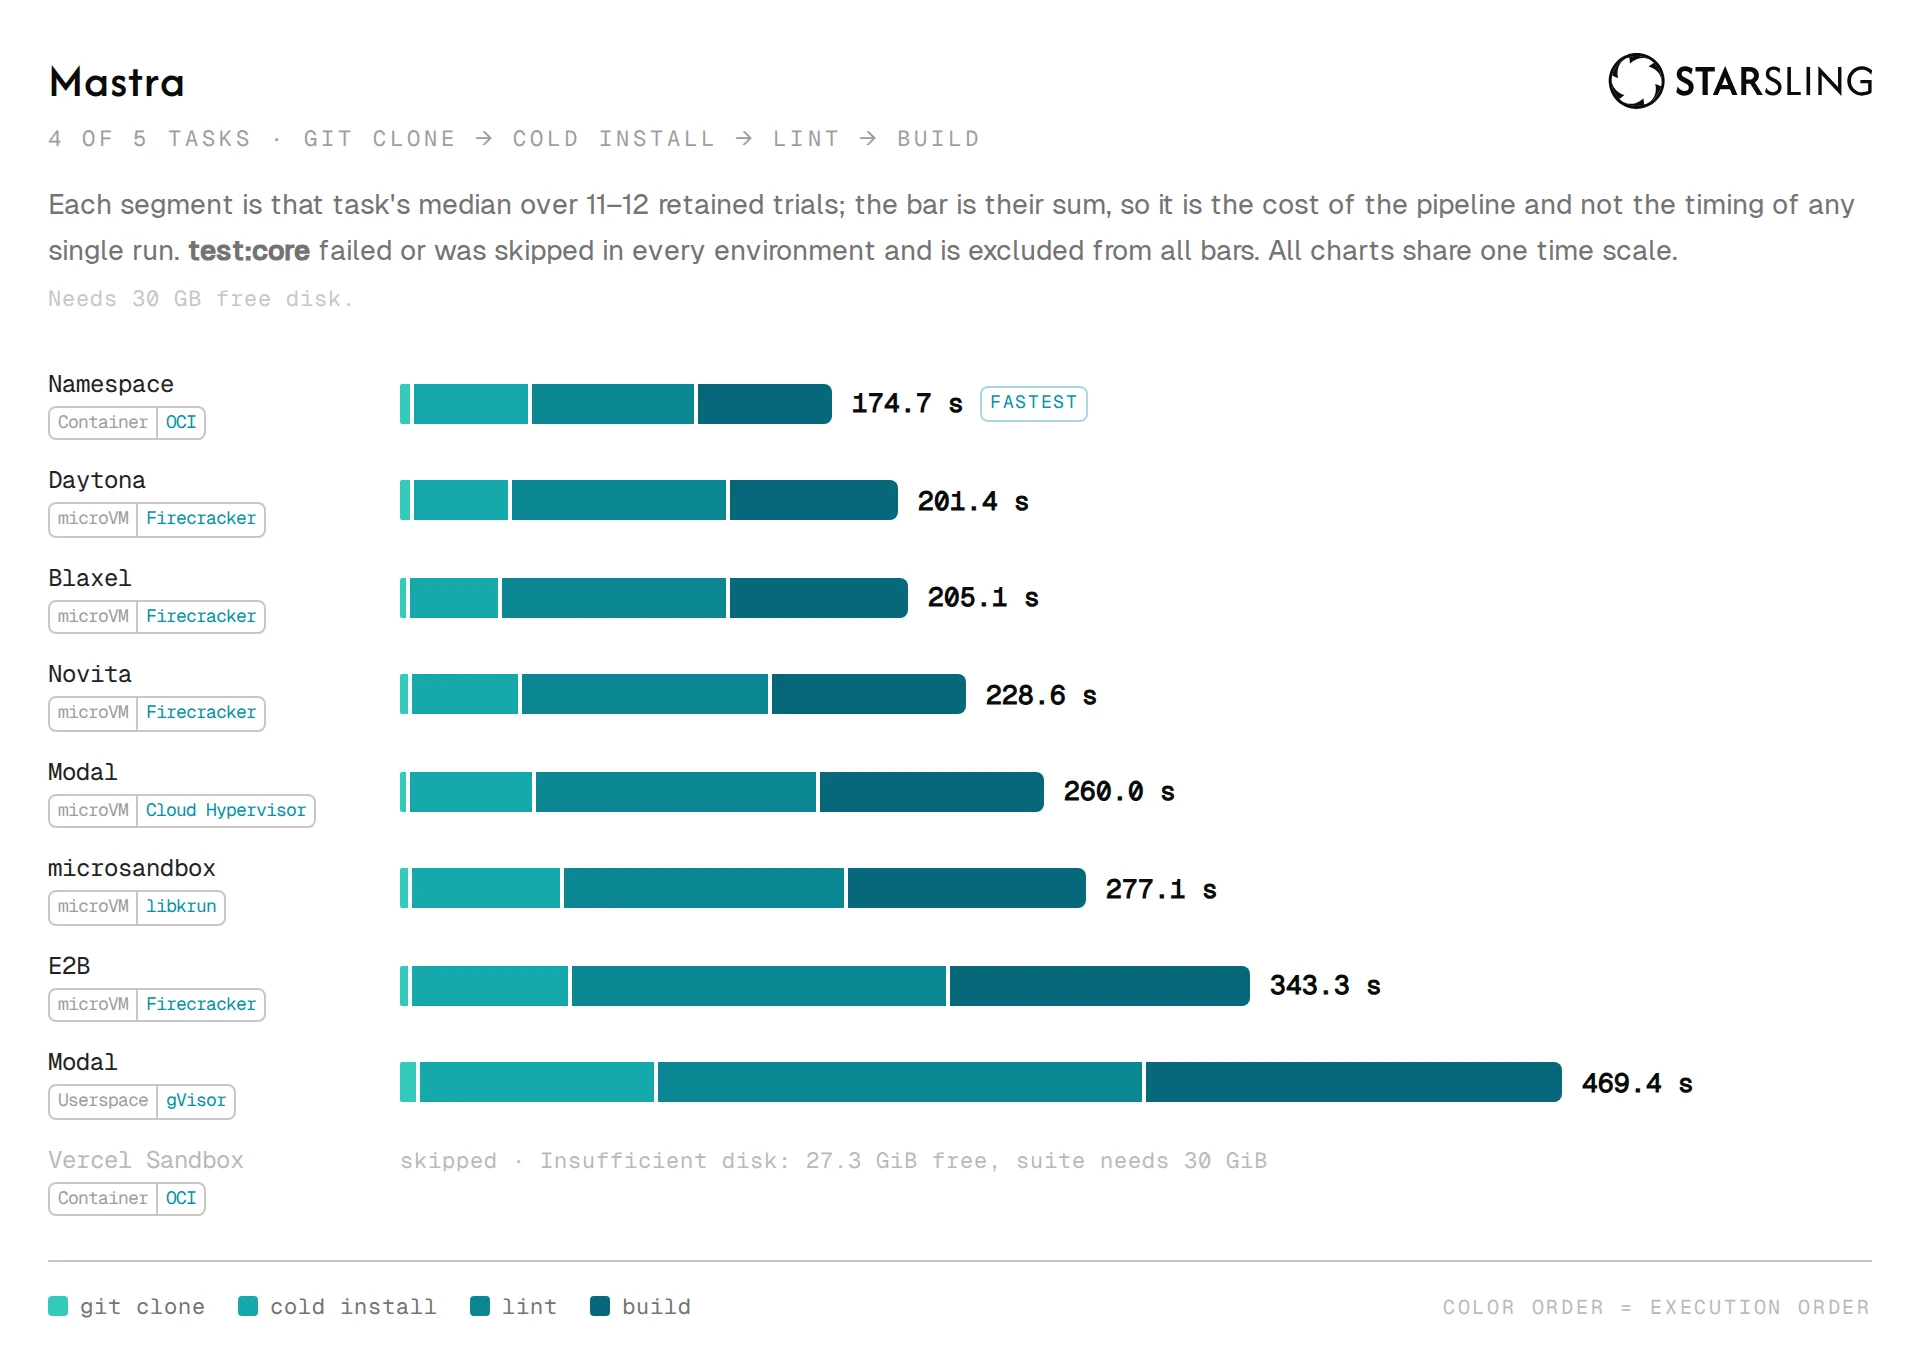
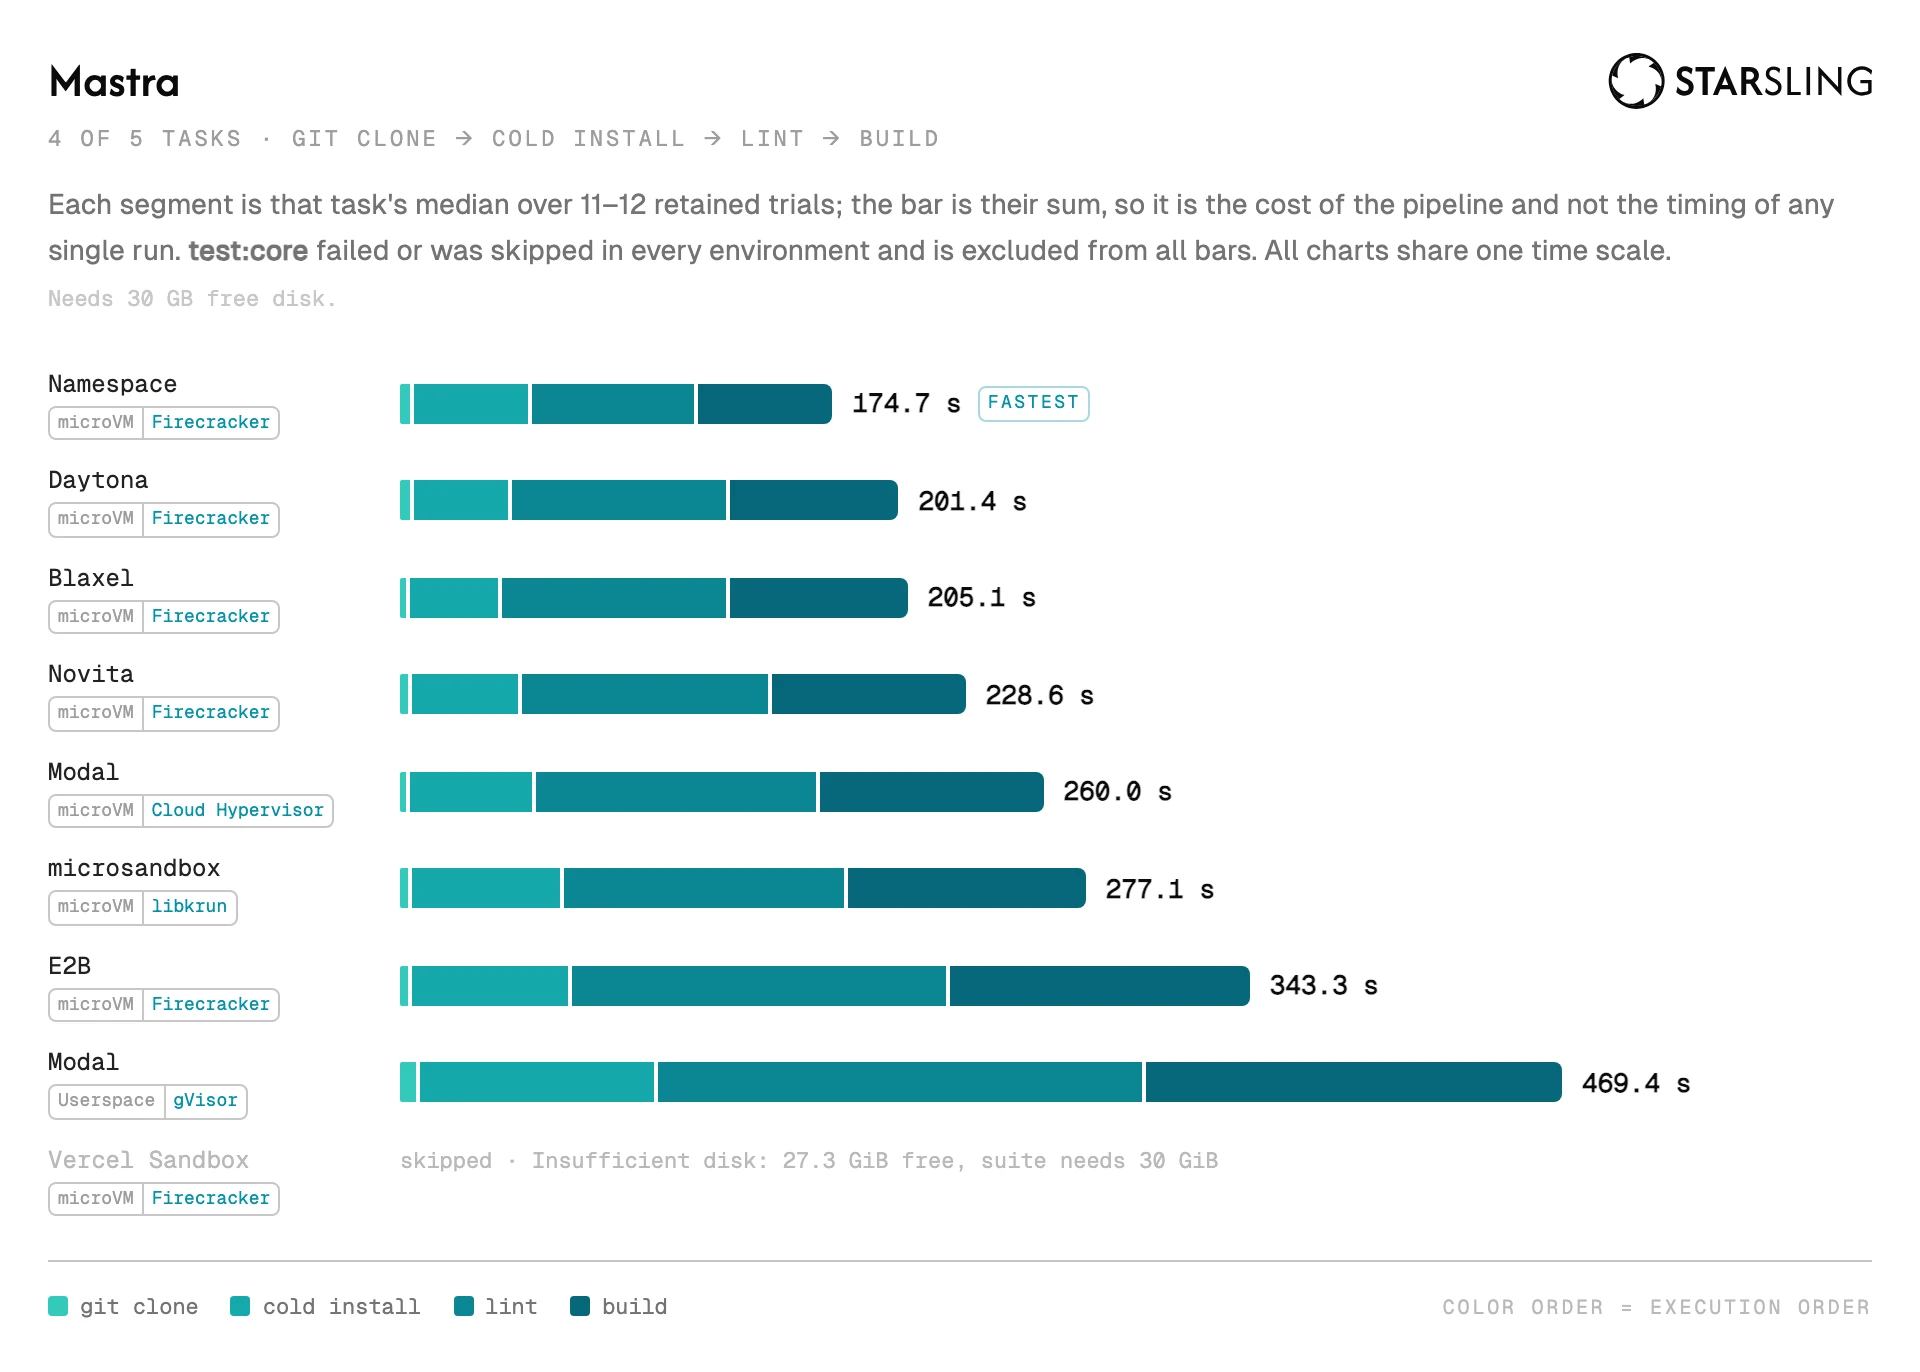
fix(figures): chip the outer VMM, not the nested container runtime
Vercel and Namespace run the workload in an OCI container INSIDE a Firecracker
microVM, so the mise/system-provider probe reports both layers: machine_vmm=
firecracker AND isolation_runtime=oci-container (detected_virt_vm=kvm confirms
the VM). observedIsolationRuntime read isolation_runtime first, so it took the
innermost layer and discarded the hardware boundary — chipping two Firecracker
microVMs as "Container | OCI" in every realworld chart.

That also put the figures at odds with the Markdown table for the same run,
which says "Vercel Sandbox | Firecracker microVM | vm": packages/results treats
the registry declaration as authoritative and documents in isolationClass() that
the probe's container signal is a cgroup-quota heuristic a microVM trips too, so
it must never override a VM. The figure package trusted the raw probe instead.

Consult machine_vmm first. The existing emptiness filter already skips
'not-observable', so Modal's gVisor cell still falls through to gvisor. Verified
against run 30730328892: vercel and namespace change to microVM|Firecracker and
the other seven providers are byte-identical. LEADERBOARD.md is unchanged — only
the three figures re-render.

The old test set isolation_runtime and machine_vmm to the same value, so it
never covered nesting; add the real two-layer shape plus the no-VMM fallthrough.

diff --git a/packages/figures/src/model.test.ts b/packages/figures/src/model.test.ts
@@ -142,6 +142,95 @@ describe("buildRealworldFigureModel", () => {
 		]);
 	});
 
+	// Vercel and Namespace run the workload in an OCI container INSIDE a Firecracker microVM, so the
+	// probe reports both layers at once. Reading `isolation_runtime` first took the innermost one and
+	// chipped two microVMs as "Container · OCI" — contradicting the Markdown table for the same run,
+	// which called them microVMs. The outer boundary is what the chip claims, so the VMM wins.
+	it("prefers the outer VMM over a nested container runtime", () => {
+		const nested = (providerId: string): ProviderRun =>
+			provider(providerId, [metric(CLONE, [1, 2]), metric(INSTALL, [30, 32])], {
+				hostMetadata: [
+					{
+						source: "mise/system-provider",
+						sourceFile: "system/system-provider.json",
+						fields: [
+							{ path: "container_runtime", value: "oci-container" },
+							{ path: "isolation_runtime", value: "oci-container" },
+							{ path: "machine_vmm", value: "firecracker" },
+						],
+					},
+				],
+			});
+		const model = buildRealworldFigureModel({
+			run: run([nested("vercel"), nested("namespace")]),
+			metrics: METRICS,
+			providers: [
+				{ id: "vercel", displayName: "Vercel Sandbox", isolationTechnology: "Firecracker microVM" },
+				{
+					id: "namespace",
+					displayName: "Namespace",
+					isolationTechnology: "microVM (dedicated instance)",
+				},
+			],
+			suites: SUITES,
+		});
+
+		expect(model.providers.map((p) => p.isolation)).toEqual([
+			{ kind: "microVM", technology: "Firecracker" },
+			{ kind: "microVM", technology: "Firecracker" },
+		]);
+	});
+
+	// Modal's gVisor cell exposes no VMM, so the nested-layer preference must fall through rather
+	// than leave the chip blank.
+	it("falls through to the container runtime when no VMM is observable", () => {
+		const model = buildRealworldFigureModel({
+			run: run([
+				provider("modal-gvisor", [metric(CLONE, [1, 2]), metric(INSTALL, [30, 32])], {
+					hostMetadata: [
+						{
+							source: "mise/system-provider",
+							sourceFile: "system/system-provider.json",
+							fields: [
+								{ path: "container_runtime", value: "gvisor" },
+								{ path: "isolation_runtime", value: "gvisor" },
+								{ path: "machine_vmm", value: "not-observable" },
+							],
+						},
+					],
+				}),
+				provider("blaxel", [metric(CLONE, [1, 2]), metric(INSTALL, [30, 32])], {
+					hostMetadata: [
+						{
+							source: "mise/system-provider",
+							sourceFile: "system/system-provider.json",
+							fields: [
+								{ path: "container_runtime", value: "none" },
+								{ path: "isolation_runtime", value: "firecracker" },
+								{ path: "machine_vmm", value: "firecracker" },
+							],
+						},
+					],
+				}),
+			]),
+			metrics: METRICS,
+			providers: [
+				{
+					id: "modal-gvisor",
+					displayName: "Modal (gVisor)",
+					isolationTechnology: "gVisor container",
+				},
+				{ id: "blaxel", displayName: "Blaxel", isolationTechnology: "Firecracker microVM" },
+			],
+			suites: SUITES,
+		});
+
+		expect(model.providers.map((p) => p.isolation)).toEqual([
+			{ kind: "Userspace", technology: "gVisor" },
+			{ kind: "microVM", technology: "Firecracker" },
+		]);
+	});
+
 	it("charts a suite two environments completed, named from its task labels", () => {
 		const model = build([
 			provider("alpha", [metric(CLONE, [1, 2]), metric(INSTALL, [30, 32])]),

diff --git a/packages/figures/src/model.ts b/packages/figures/src/model.ts
@@ -151,9 +151,27 @@ function isolationFromDeclaration(declared: string | undefined): FigureIsolation
 	return undefined;
 }
 
-/** Read the dominant exact runtime from the aggregated mise/system-provider records. */
+/**
+ * Read the dominant exact runtime from the aggregated mise/system-provider records.
+ *
+ * `machine_vmm` is consulted FIRST because the probe reports NESTED isolation and these paths name
+ * different layers of it. Vercel and Namespace run the workload in an OCI container inside a
+ * Firecracker microVM, so they report `machine_vmm=firecracker` AND `isolation_runtime=oci-container`
+ * — both true. Reading `isolation_runtime` first returned the innermost layer and threw away the
+ * hardware boundary, chipping two Firecracker microVMs as "Container · OCI" while the Markdown table
+ * for the same run called them microVMs.
+ *
+ * The outer boundary wins because that is what the chip claims: the isolation the workload is
+ * actually confined by, and the thing a reader comparing environments is weighing. It also puts this
+ * derivation back in agreement with `packages/results`, whose roster treats the registry declaration
+ * as authoritative and documents (see `isolationClass`) that the probe's container signal is a
+ * cgroup-quota heuristic a microVM trips too — so it must never override a VM.
+ *
+ * `machine_vmm` is skipped when it is `not-observable` (Modal's gVisor cell, where no VMM is exposed
+ * and `isolation_runtime=gvisor` is the correct answer) by the same emptiness filter below.
+ */
 function observedIsolationRuntime(provider: ProviderRun): string | undefined {
-	const paths = ["isolation_runtime", "machine_vmm", "container_runtime"];
+	const paths = ["machine_vmm", "isolation_runtime", "container_runtime"];
 	for (const path of paths) {
 		const counts = new Map<string, number>();
 		for (const record of provider.hostMetadata ?? []) {
